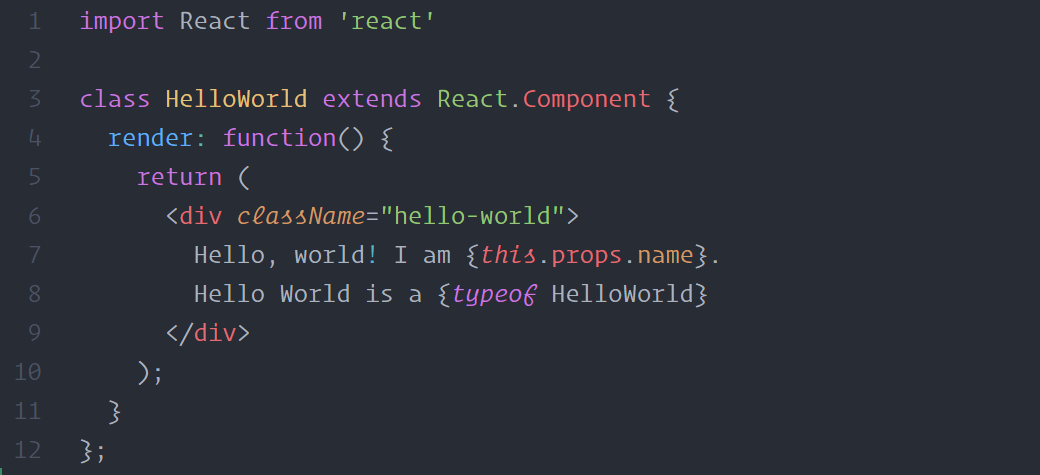
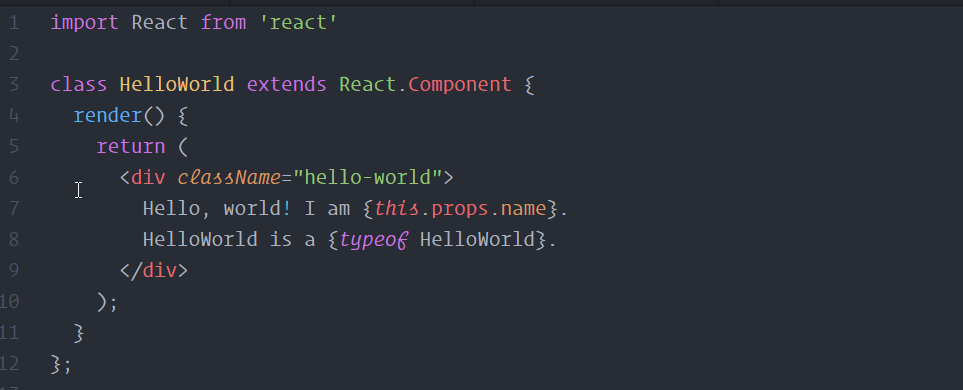
Update screenshot

diff --git a/sample/sample.jsx b/sample/sample.jsx
@@ -1,11 +1,11 @@
 import React from 'react'
 
 class HelloWorld extends React.Component {
-  render: function() {
+  render() {
     return (
       <div className="hello-world">
         Hello, world! I am {this.props.name}.
-        Hello World is a {typeof HelloWorld}
+        HelloWorld is a {typeof HelloWorld}.
       </div>
     );
   }
